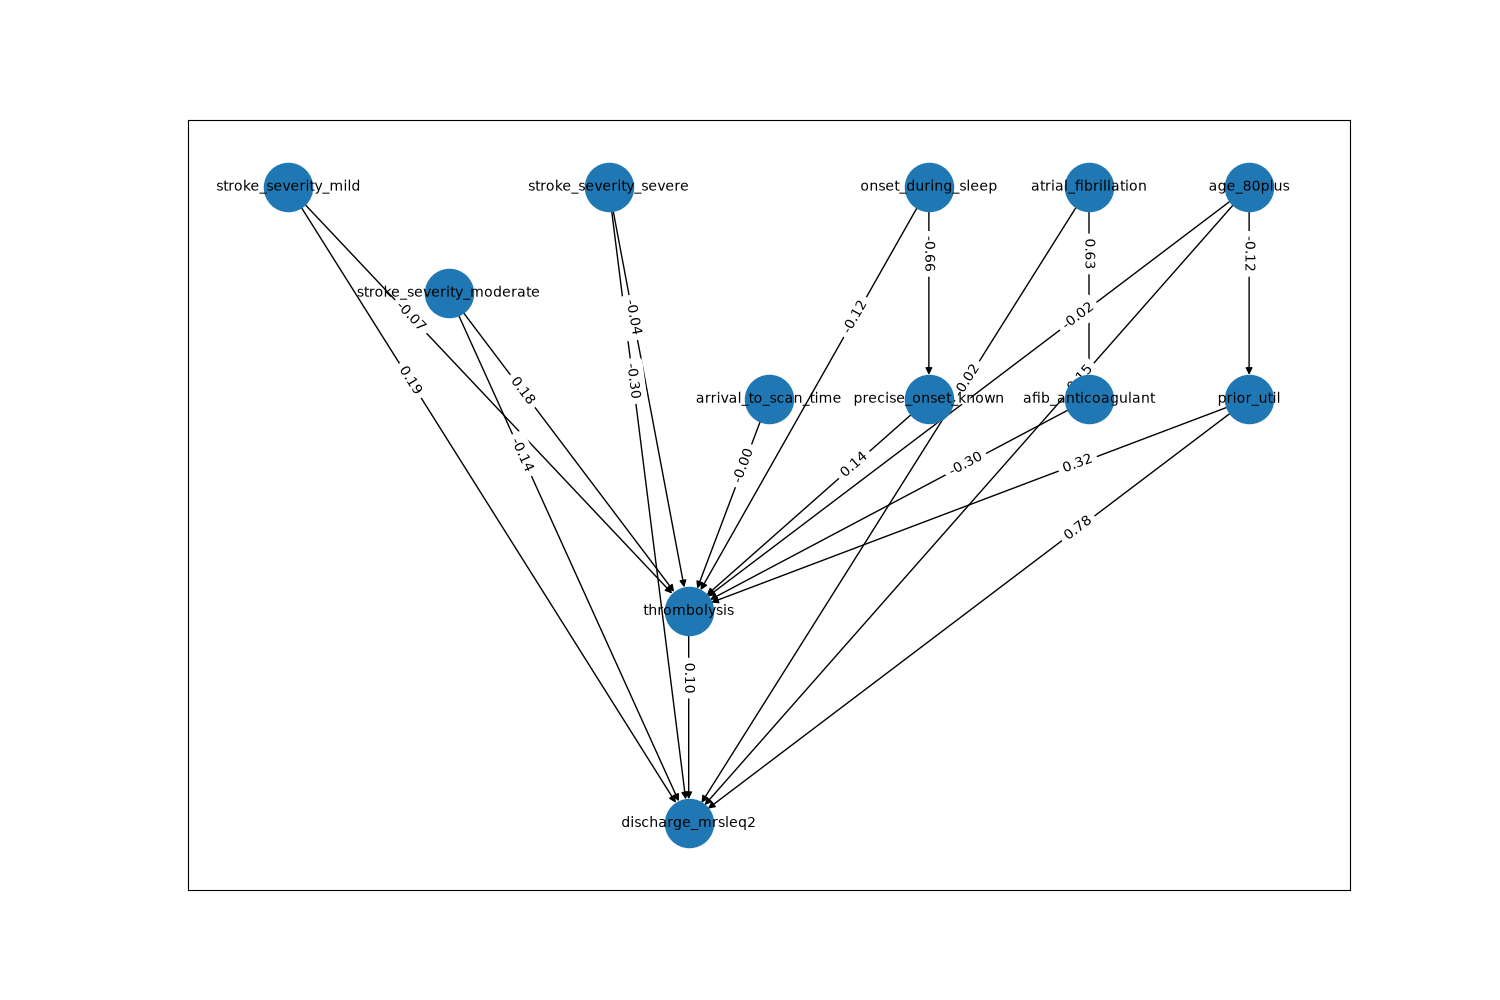
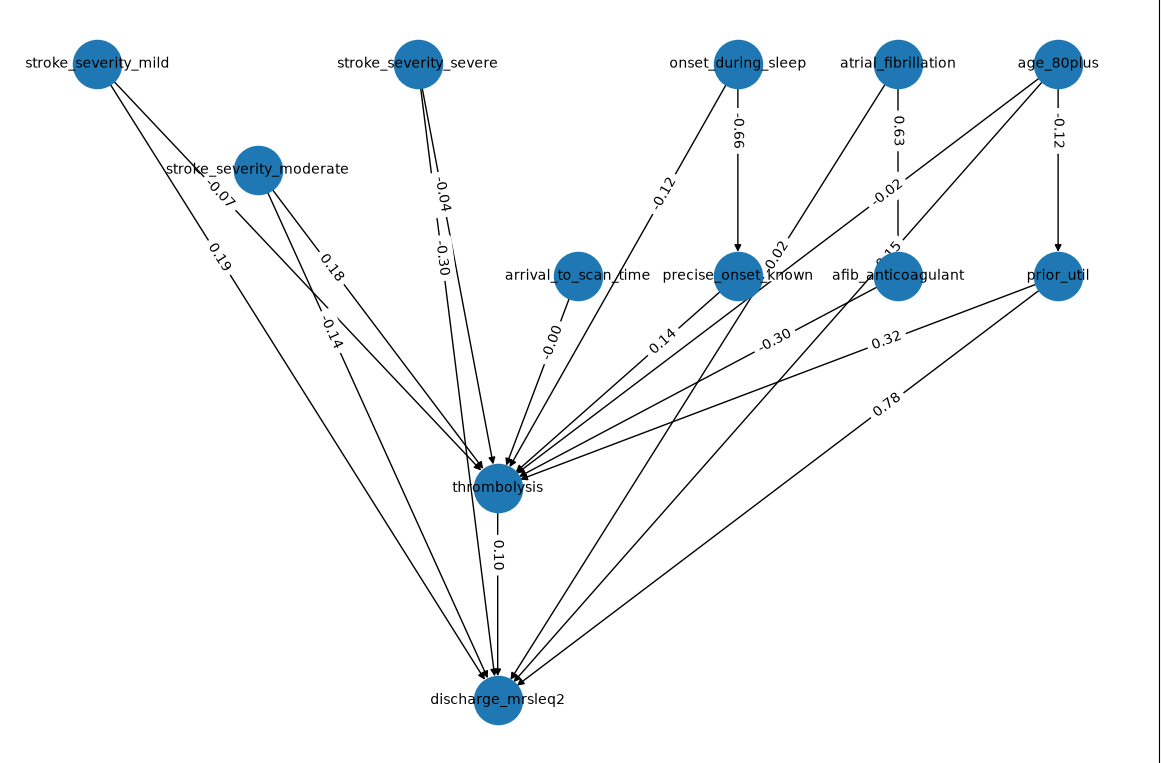
Adding readme

diff --git a/README.md b/README.md
@@ -1,1 +1,75 @@
-vjk
+<h2>
+<div align="center">
+🧠🔗Causal Discovery for stroke data🔗🧠
+</div>
+</h2>
+
+*Exploring causal discovery methods for understanding factors influencing outcomes after stroke*
+
+<h3>
+<div align="center">
+About the Project
+</div>
+</h3>
+
+Stroke outcomes are influenced by a complex combination of patient characteristics, clinical factors, treatment decisions and timings throughout the stroke pathway. However, observational healthcare data primarily shows us associations and patterns.
+
+The key question explored in this project is:
+
+**💭 Can causal discovery methods help us move from simply identifying relationships in stroke pathway data towards understanding the underlying causal structure?**
+
+This project investigates causal discovery methods using synthetically generated data with known causal relationships.
+Because the true causal structure is known in the simulated data, the performance of causal discovery algorithms can be evaluated by comparing the DAG discovered by the algorithm with the true underlying DAG.
+
+<h3>
+<div align="center">
+🏥 Why Stroke?
+</div>
+</h3>
+Stroke care involves a complex sequence of events. A patient’s outcome may depend on:
+
+* 👤 Patient characteristics
+* 🚑 Emergency presentation
+* 🧠 Stroke severity
+* 🏥 Stroke team 
+* 💊 Treatment decisions
+* ⏱ Arrival to scan timings
+* ❤ Patient outcome
+
+Understanding the underlying relationships could potentially help identify which factors are genuinely driving outcomes, rather than simply being associated with them.
+
+🎯 **Aim**: The overall aim is to investigate whether causal discovery algorithms can accurately recover known causal relationships from data.
+
+<h3>
+<div align="center">
+🔗 Directed Acyclic Graphs (DAGs)
+</div>
+</h3>
+A Directed Acyclic Graph (DAG) provides a visual representation of causal relationships.
+For example:
+
+<div align="center">
+<img src="Example DAG.png">
+</div>
+
+<h3>
+<div align="center">
+🌳 The True DAG
+</div>
+</h3>
+Because the data is simulated, the underlying causal structure is known.
+This provides a baseline against which causal discovery algorithms can be evaluated.
+
+<div align="center">
+<img src="final_results_11_08_labelled_DAG.png">
+</div>
+
+<h3>
+<div align="center">
+🧪 Synthetic Data Generation
+</div>
+</h3>
+One of the central parts of the project is generating data where the true causal structure is known in advance. This allows the analysis to answer a question that is difficult to answer using real-world observational data:
+
+**🔍 If we know the true causal relationships, can the algorithm find them?**
+
